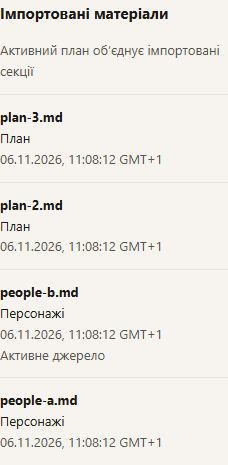
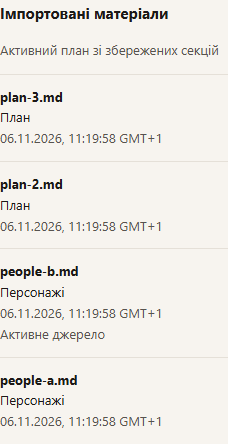
fix: address Claude UI review and strengthen import regressions
Docs: align SPEC, UA/EN guidance and neutral journal screenshots; record five fixed cross-review findings. Validation:185 web tests,96 browser tests,check_docs.

diff --git a/src/storygen/web/static/api.js b/src/storygen/web/static/api.js
@@ -2,7 +2,7 @@ import {t,msg,labelEntries,getLocale,uiText,uiAttr,uiHTML,diagnostic} from './i1
 export class APIError extends Error{
   constructor(message,status,data){super(message);this.name='APIError';this.status=status;this.data=data;}
 }
-export async function api(url,options={}){const response=await fetch(url,options);let data;try{data=await response.json()}catch{data={get detail(){return t("m_acea534098cb")}}}if(!response.ok)throw new APIError(typeof data?.detail==='string'?(data.detail_original??data.detail):t("m_d135f0690e85"),response.status,data);return data}
+export async function api(url,options={}){const response=await fetch(url,options);let data;try{data=await response.json()}catch{data={get detail(){return t("m_acea534098cb")}}}if(!response.ok){const fileError=Array.isArray(data?.files)?data.files.find(file=>file.status==='failed'&&typeof file.error==='string')?.error:null;throw new APIError(typeof data?.detail==='string'?(data.detail_original??data.detail):fileError||t("m_d135f0690e85"),response.status,data);}return data}
 export function json(method,body){return{method,headers:{'Content-Type':'application/json'},body:JSON.stringify(body)}}
 export function dismissNotice(){const box=document.querySelector('#notice');if(!box)return;clearTimeout(box.timer);box.hidden=true;}
 export function notice(text,kind='success'){const box=document.querySelector('#notice');const message=box.querySelector?.('.notice-message');if(message)uiText(message,"textContent",()=>(diagnostic(text)));else uiText(box,"textContent",()=>(diagnostic(text)));box.dataset.kind=kind;box.setAttribute('role',kind==='error'?'alert':'status');box.hidden=false;clearTimeout(box.timer);box.timer=setTimeout(dismissNotice,kind==='error'?12000:7000)}

diff --git a/src/storygen/web/static/import-results.js b/src/storygen/web/static/import-results.js
@@ -29,7 +29,7 @@ export function renderImportResults(host,data={},options={}){
       const link=document.createElement('a');link.className='import-character-link';link.href=options.charactersHref;uiText(link,'textContent',()=>t('characters.nav'));item.append(link);
     }
     if(file.skipped_scene_numbers?.length)paragraph(item,()=>t('imports.skipped_scenes',{p0:file.skipped_scene_numbers.join(', ')}));
-    if(file.status==='failed')paragraph(item,()=>t('imports.failed_file'));
+    if(file.status==='failed'){paragraph(item,()=>t('imports.failed_file'));if(typeof file.error==='string')paragraph(item,()=>diagnostic(file.error));}
     if(file.status==='imported'&&!file.created_character_cards&&!file.created_scene_ids?.length&&!file.skipped_character_names?.length&&!file.skipped_scene_numbers?.length)paragraph(item,()=>t('imports.no_changes'));
     for(const warning of file.warnings||[]){
       const mixed=warning.match(/^Ім’я «(.+)» містить латинські й кириличні літери/);

diff --git a/docs/superpowers/plans/2026-11/2026-11-06-additive-imports-ui.md b/docs/superpowers/plans/2026-11/2026-11-06-additive-imports-ui.md
@@ -67,3 +67,24 @@ UI detector виконано один раз; попередження inherited
 
 
 Фінальний UI gate: verify.py tests/web — **185 passed,0 failed/errors/skipped**, source_changed_during_run=false, artifacts/verification-u3crjc8x/result.json. Browser **94 passed**,2.0m; шість screenshots desktop/mobile візуально підтверджені.
+
+
+## Дозволений cross-review 06.11.2026
+
+Пакет detent0.5.0 повторно звірено з npm integrity;81 розпакований файл точно відповідає архіву. Окремий незалежний Git-знімок: base8c872f2, headf4ff075 → filtered9461c41;622 файли allowlist HEAD,0 credential literal findings. Не передавалися original .git, .env/config/credentials, user data/research, progress/STATUS, backups/artifacts та binary images. Claude safe/restricted, тільки Read/Grep/Glob; Google/agy review не запускався. Report не комітиться, таблиця зберігає рішення. Застосовано receiving-code-review: усі твердження перевірено в коді, посилені browser тести дали4 expected failures перед виправленнями,2 conflict тести лишилися зеленими; після виправлень12 additive desktop/mobile passed.
+
+Cross-review: claude/default @ 9461c41 (author: codex) — 5 findings: 5 fixed, 0 rejected
+
+| № | Зауваження | Рішення й доказ |
+|---|---|---|
+|1|Слабке assertion конфлікту target збігалося і з «Без змін».|Fixed: exact conflict text, ввід27000 й GET target28000; два desktop/mobile тести passed.|
+|2|files[].error не показувався,409 мав generic validation message.|Fixed: конкретна причина в per-file блоці й APIError/notice, відомі CAS/runtime причини UA/EN; невідома діагностика textContent. Браузер перевіряє причину409 й literal HTML без img; Node — message/status/data.|
+|3|«Об’єднаний план» неправдивий для першого відфільтрованого файла.|Fixed: нейтральний «Активний план зі збережених секцій» / Active plan from accepted sections. Окрема реальна регресія першого файла з duplicate2/new3.|
+|4|Недостатні pending/partial/clearing assertions.|Fixed: обидва inputs disabled, per-file statuses/no_retry, successful plan очищено, failed characters лишилися; real successful characters очищено.|
+|5|Слабкі timezone/active badge assertions і немає Node зв’язку в traceability.|Fixed: UA Warsaw timezone й EN GMT+1, активний badge лише people-b, видимий time zone; pytest Node runner додано до IMPORT-UI-S01/S02, browser manual coverage збережено.|
+
+
+Після cross-review повний Playwright: **96 passed**,2.3m, artifacts/ui-browser-final.log. Нова регресія першого відфільтрованого плану й literal file.error без HTML пройшли; оновлені journal screenshots desktop/mobile повторно оглянуто. Фінальний web gate записується через verify.py.
+
+
+Остаточний gate після всіх cross-review виправлень: **185 passed,0 failed/errors/skipped**, source_changed_during_run=false, artifacts/verification-ci5eme_z/result.json; STATUS оновлено verify.py. Код і UA/EN інструкції узгоджено, залишкових findings немає.

diff --git a/docs/prototype-runbook.md b/docs/prototype-runbook.md
@@ -225,7 +225,7 @@ JSON та env-назви не перекладаються. CLI ще не лок
 
 План: дубль визначається за явним номером («Сцена 2. Зустріч» та «Сцена 2: Друзі» збігаються). Нові номери створюють сцени в кінці; секції без номера завжди нові, включно з повторним імпортом. Старий активний план доповнюється тільки новими секціями. Зміна номера у ручному плані синхронізує author_scene_number; зайнятий номер відхиляється. Назва й position не є ключем дубля.
 
-У «Параметрах і матеріалах сцени» кожен імпорт має назву файла, локальні дату/час і часовий пояс. Об’єднаний активний план позначається окремо, без додаткового запису імпорту. GET story повертає source_files (назва й UTC created_at) та active_sources. PUT settings приймає target_words разом із profile й expected_revision; мінімум5000, рекомендовано до15000, цілі сцен не перераховуються. Multipart результат files треба читати перед повтором: imported уже застосовано, failed не застосовано, not_processed не оброблявся. При partial=true не повторюйте весь набір автоматично, особливо ненумеровані сцени.
+У «Параметрах і матеріалах сцени» кожен імпорт має назву файла, локальні дату/час і часовий пояс. Активний план зі збережених секцій позначається окремо, без додаткового запису імпорту. GET story повертає source_files (назва й UTC created_at) та active_sources. PUT settings приймає target_words разом із profile й expected_revision; мінімум5000, рекомендовано до15000, цілі сцен не перераховуються. Multipart результат files треба читати перед повтором: imported уже застосовано, failed не застосовано, not_processed не оброблявся. При partial=true не повторюйте весь набір автоматично, особливо ненумеровані сцени.
 
 Схема даних5 мігрується при запуску; перед переходом зробіть холодну резервну копію. Старі активні джерела й точні bytes зберігаються; повернення до старої версії програми потребує відповідної старої копії даних.
 

diff --git a/docs/STATUS.md b/docs/STATUS.md
@@ -2,20 +2,20 @@
 
 **ПЕРЕВІРКА ПРОЙШЛА** — свідчення конкретного запуску, не поточного довільного стану.
 
-- Початок (UTC): 2026-11-06T10:10:39.212102+00:00
-- Завершення (UTC): 2026-11-06T10:11:02.838739+00:00
-- Базовий commit: `7100c1e9ff289a13134d44498d37b6edb88e2687`
+- Початок (UTC): 2026-11-06T10:22:32.473696+00:00
+- Завершення (UTC): 2026-11-06T10:22:59.781549+00:00
+- Базовий commit: `f4ff07575627281feeaeb9775c2dfac28073ee0d`
 - Незакомічені зміни під час перевірки: `true`
[2 lines of base64/hex data omitted]
 - Зміна знімка під час прогону: `false`
 - Exit code: `0`
 - Фактичні testcase результати JUnit: passed: 185 · failed: 0 · errors: 0 · skipped: 0
-- Тривалість: 23.64 с
+- Тривалість: 27.31 с
 
 Точний argv (JSON, не shell-команда):
 
 ```json
-["C:\\Projects\\text-generator\\.venv\\Scripts\\python.exe", "-m", "pytest", "tests/web", "-q", "--junitxml=C:\\Projects\\text-generator\\artifacts\\verification-u3crjc8x\\junit.xml", "--basetemp=C:\\Projects\\text-generator\\artifacts\\verification-u3crjc8x\\test-tmp"]
+["C:\\Projects\\text-generator\\.venv\\Scripts\\python.exe", "-m", "pytest", "tests/web", "-q", "--junitxml=C:\\Projects\\text-generator\\artifacts\\verification-ci5eme_z\\junit.xml", "--basetemp=C:\\Projects\\text-generator\\artifacts\\verification-ci5eme_z\\test-tmp"]
 ```
 
 Результат стосується лише наведеної команди й вихідного знімка. Якщо в argv зазначено окремі файли або фільтри, це часткова перевірка. Збір (collection) не є виконанням; skipped не зараховано до passed. Відсутній або непридатний XML позначається непідтвердженим. Після зміни вихідних файлів звіт історичний. Власний STATUS і artifacts виключено зі знімка; початкова ревізія може мати dirty=true, оскільки звіт створюється до коміту.

diff --git a/docs/en/additive-imports.md b/docs/en/additive-imports.md
@@ -4,7 +4,7 @@ Character imports add new names only. Duplicate names are skipped; edit existing
 
 Scene duplicates use the explicit author number: “Сцена 2. Зустріч” and “Сцена 2: Друзі” match. Titles and list positions do not identify duplicates. Unnumbered sections are always new, including on repeated imports. New scenes are appended; the active plan retains its previous text and adds only new sections. Renumbering a manually saved plan updates its author number; an occupied number is rejected.
 
-Edit the word target in Settings → Writing. Save applies it with the profile; Reset restores the saved value. The materials panel lists each imported filename and its local date, time and time zone. An active combined plan is marked separately, without adding a fictitious import event. GET story adds source_files (name, UTC created_at) and active_sources. PUT settings accepts target_words with profile and expected_revision in one atomic save. Minimum: 5,000; recommended up to 15,000 words. Existing scene targets stay unchanged.
+Edit the word target in Settings → Writing. Save applies it with the profile; Reset restores the saved value. The materials panel lists each imported filename and its local date, time and time zone. An active plan assembled from accepted sections is marked separately, without adding a fictitious import event. GET story adds source_files (name, UTC created_at) and active_sources. PUT settings accepts target_words with profile and expected_revision in one atomic save. Minimum: 5,000; recommended up to 15,000 words. Existing scene targets stay unchanged.
 
 Multipart results contain files with imported, failed or not_processed status. A partial success returns200 and partial=true. Do not retry the whole batch automatically; unnumbered scenes would be added again. Initial format/UTF-8 validation rejects the whole batch before publication; a runtime failure stops subsequent files.
 

diff --git a/docs/superpowers/plans/2026-10-20-remediation-progress.md b/docs/superpowers/plans/2026-10-20-remediation-progress.md
@@ -1027,3 +1027,12 @@ R-28k поставлено27.10:1293PASS/1SKIP verification-v4p8q2ak/source_chan
 
 
 Фінальний UI gate: verify.py tests/web — **185 passed,0 failed/errors/skipped**, source_changed_during_run=false, artifacts/verification-u3crjc8x/result.json. Browser **94 passed**,2.0m; шість screenshots desktop/mobile візуально підтверджені.
+
+
+UI cross-review Claude завершено:5 findings,5 fixed,0 rejected. Показ file.error/CAS UA/EN, правдивий підпис активного плану, посилені assertions конфліктів/очищення/дат/active badge та traceability. Таблиця — у UI-плані; report не комітиться. Дозволений privacy-filtered запуск без приватних матеріалів; Google/agy не запускався. Посилені тести:4 expected RED, після виправлення12 GREEN; фінальні перевірки після останніх змін записуються окремо.
+
+
+Після cross-review повний Playwright: **96 passed**,2.3m, artifacts/ui-browser-final.log. Нова регресія першого відфільтрованого плану й literal file.error без HTML пройшли; оновлені journal screenshots desktop/mobile повторно оглянуто. Фінальний web gate записується через verify.py.
+
+
+Остаточний gate після всіх cross-review виправлень: **185 passed,0 failed/errors/skipped**, source_changed_during_run=false, artifacts/verification-ci5eme_z/result.json; STATUS оновлено verify.py. Код і UA/EN інструкції узгоджено, залишкових findings немає.
